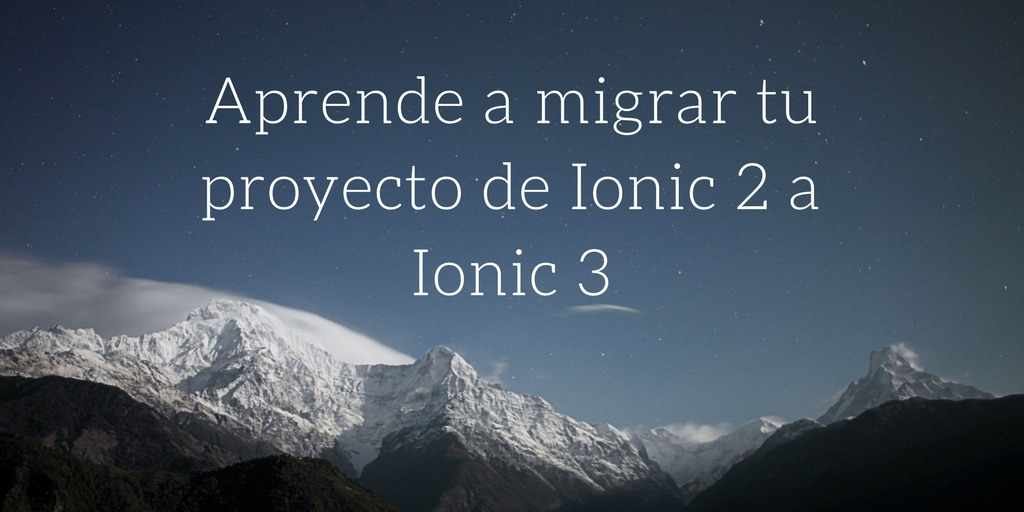
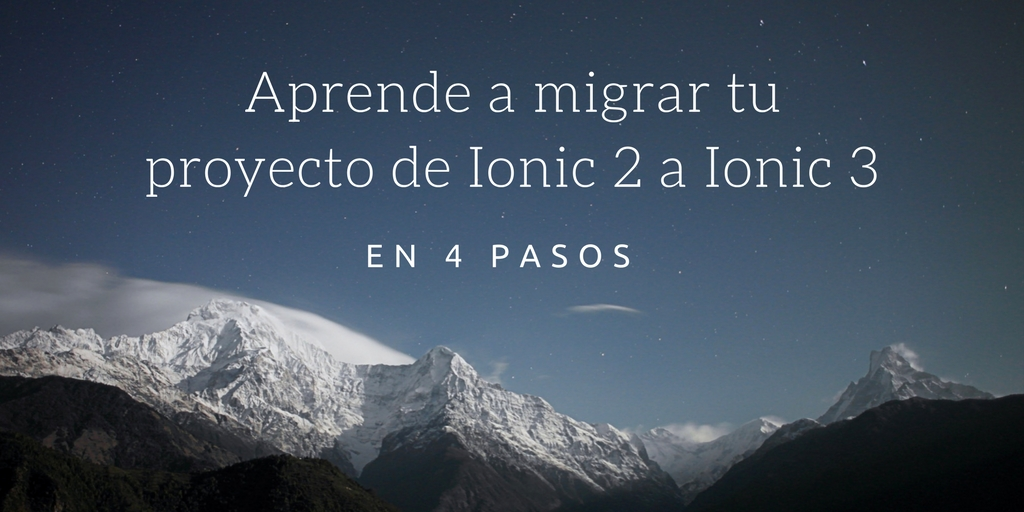
:bug: fix errors

Changed region(s): [[0.125, 0.125, 0.875, 0.4375], [0.3438, 0.4688, 0.625, 0.5938]]

diff --git a/_posts/tips/2017-04-15-ionic-2-to-ionic3.md b/_posts/tips/2017-04-15-ionic-2-to-ionic3.md
@@ -60,11 +60,11 @@ Ahora debemos actualizar las versiones de las dependencias de nuestro proyecto y
 
 Si existen otras dependencias aparte de las que maneja Ionic, se debe revisar la documentación de estas dependencias y si es necesario actualizarlas, lo más importante es que sean compatibles con la versión de angular 4.
 
-## Paso 2: Instalar nuevas dependencias 
+## Paso 3: Instalar nuevas dependencias 
 
 Ahora solo debemos instalar estas nuevas dependencias en el proyecto y para esto ejecutamos el comando `npm install` desde la terminal.
 
-## Paso 3: Importar **BrowserModule**
+## Paso 4: Importar **BrowserModule**
 
 Ahora debemos agregar `BrowserModule` en nuestro archivo `app.module.ts`, así:
 
